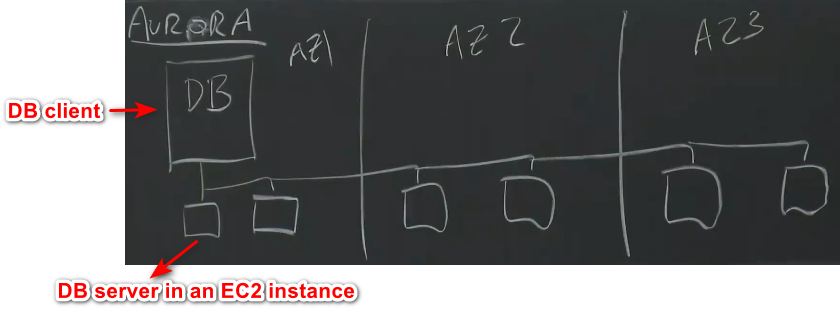
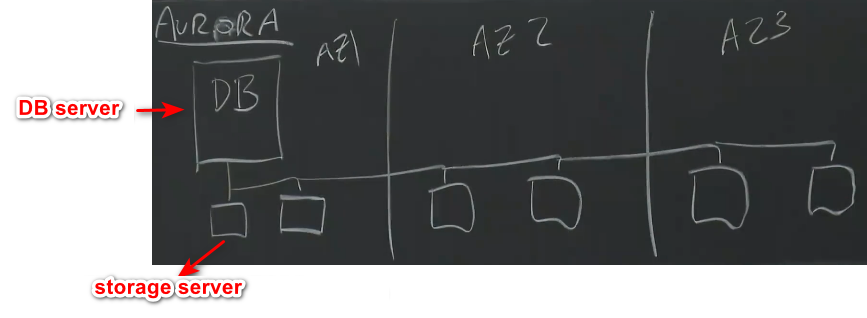
vault backup: 2022-03-18 08:45:38

diff --git a/MIT6.824/lec-note-Aurora.md b/MIT6.824/lec-note-Aurora.md
@@ -69,3 +69,4 @@ N=6，W=4，R=3
 一个AZ完全死掉之后剩余4个replica，W=4，可以继续写入
 一个AZ完全死掉+一个server死掉后，剩余3个replica，R=3，可以继续读取
 # Aurora是怎么样写入的
+- DB server写入storage servers时候不会修改现有的数据项，而是写入新的log entry

diff --git a/Day Planners/Day Planner-20220317.md b/Day Planners/Day Planner-20220317.md
@@ -1,0 +1,2 @@
+## Day Planner
+- [ ] 

diff --git a/Day Planners/Day Planner-20220318.md b/Day Planners/Day Planner-20220318.md
@@ -1,0 +1,2 @@
+## Day Planner
+- [ ] 
